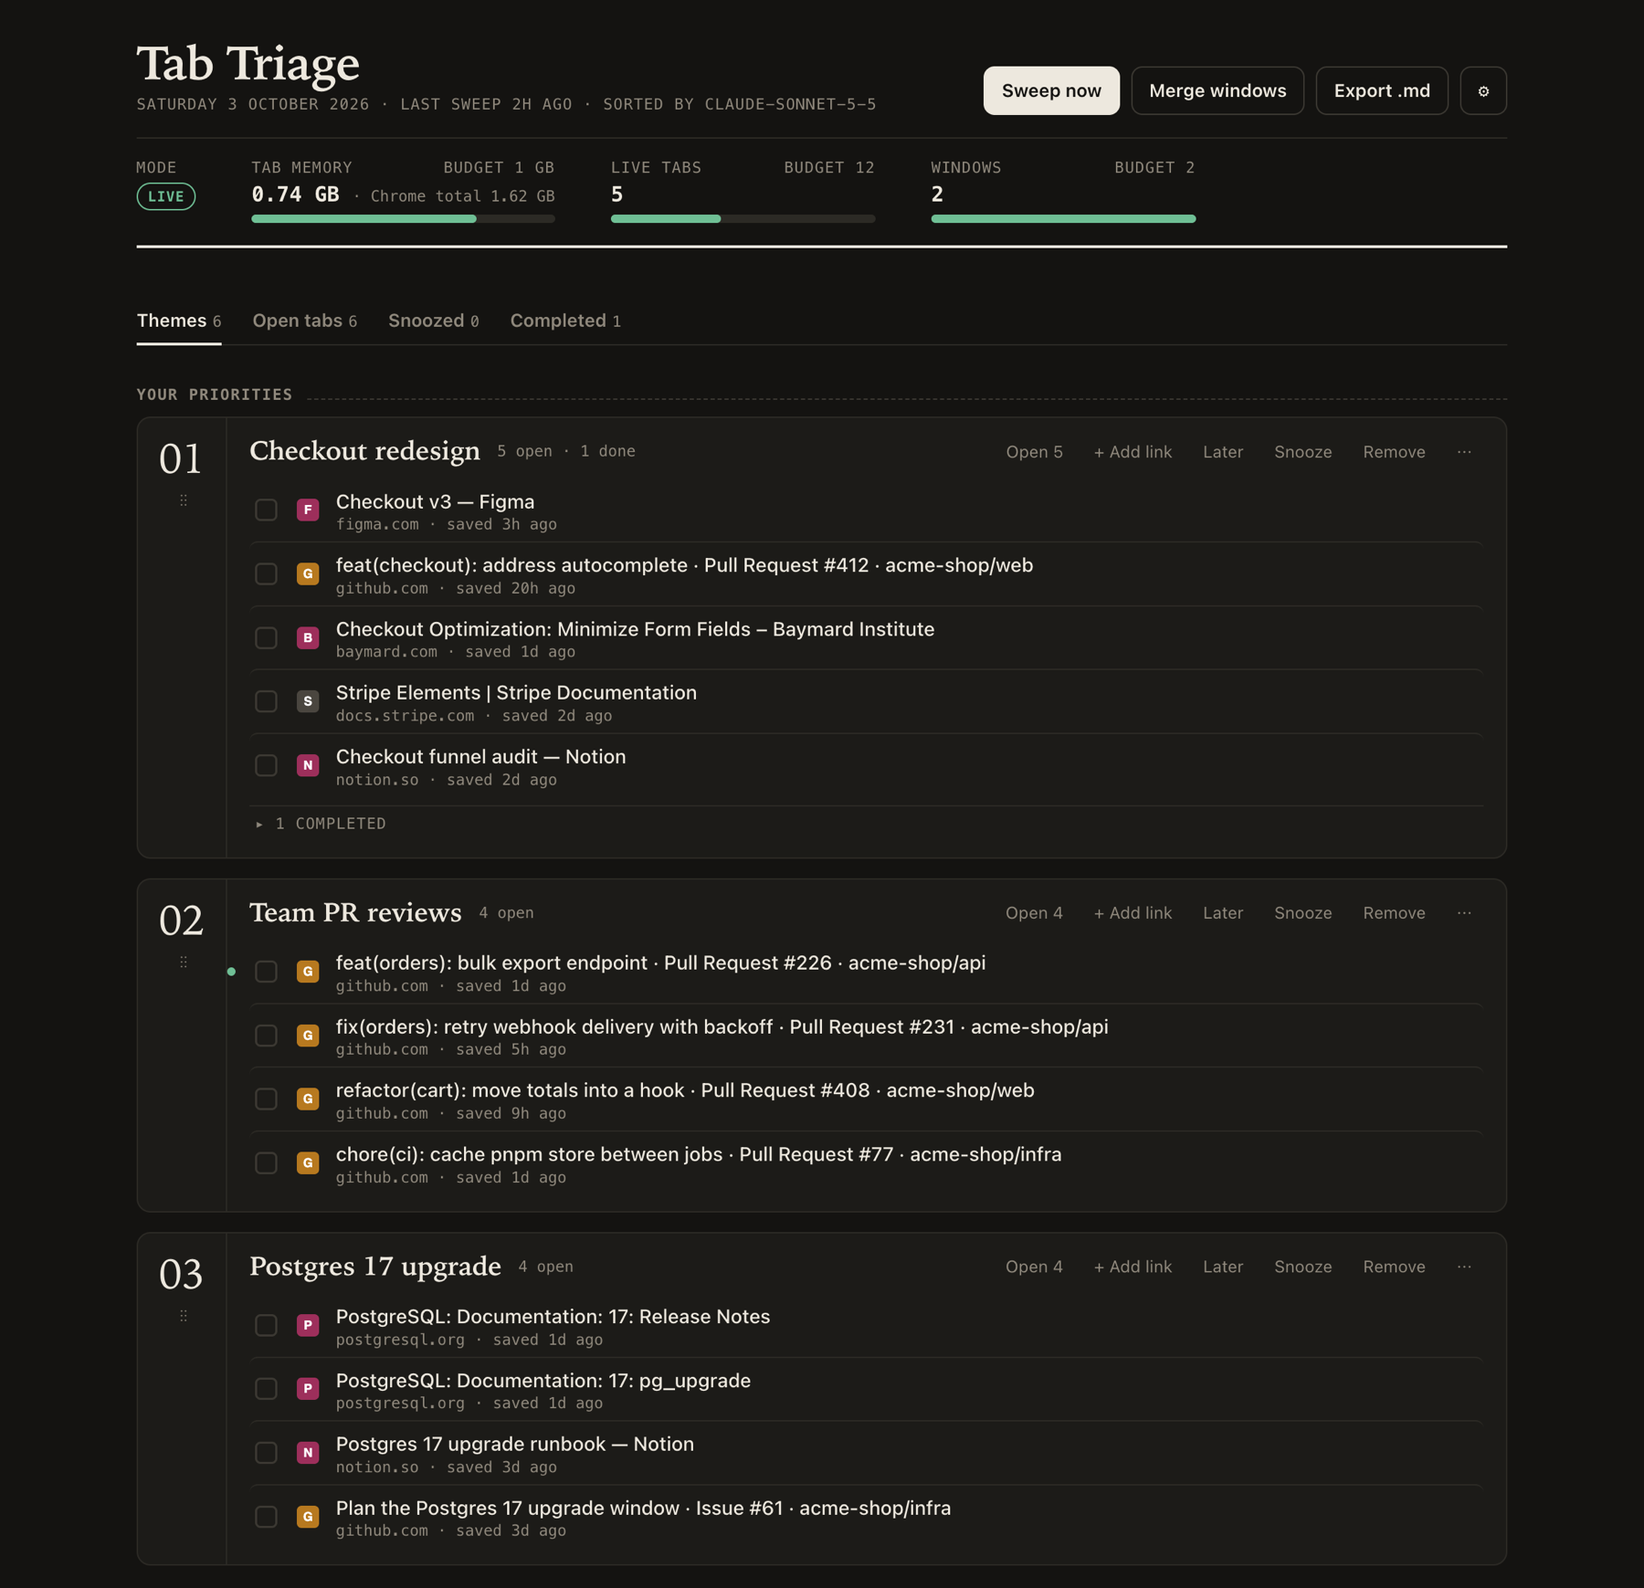
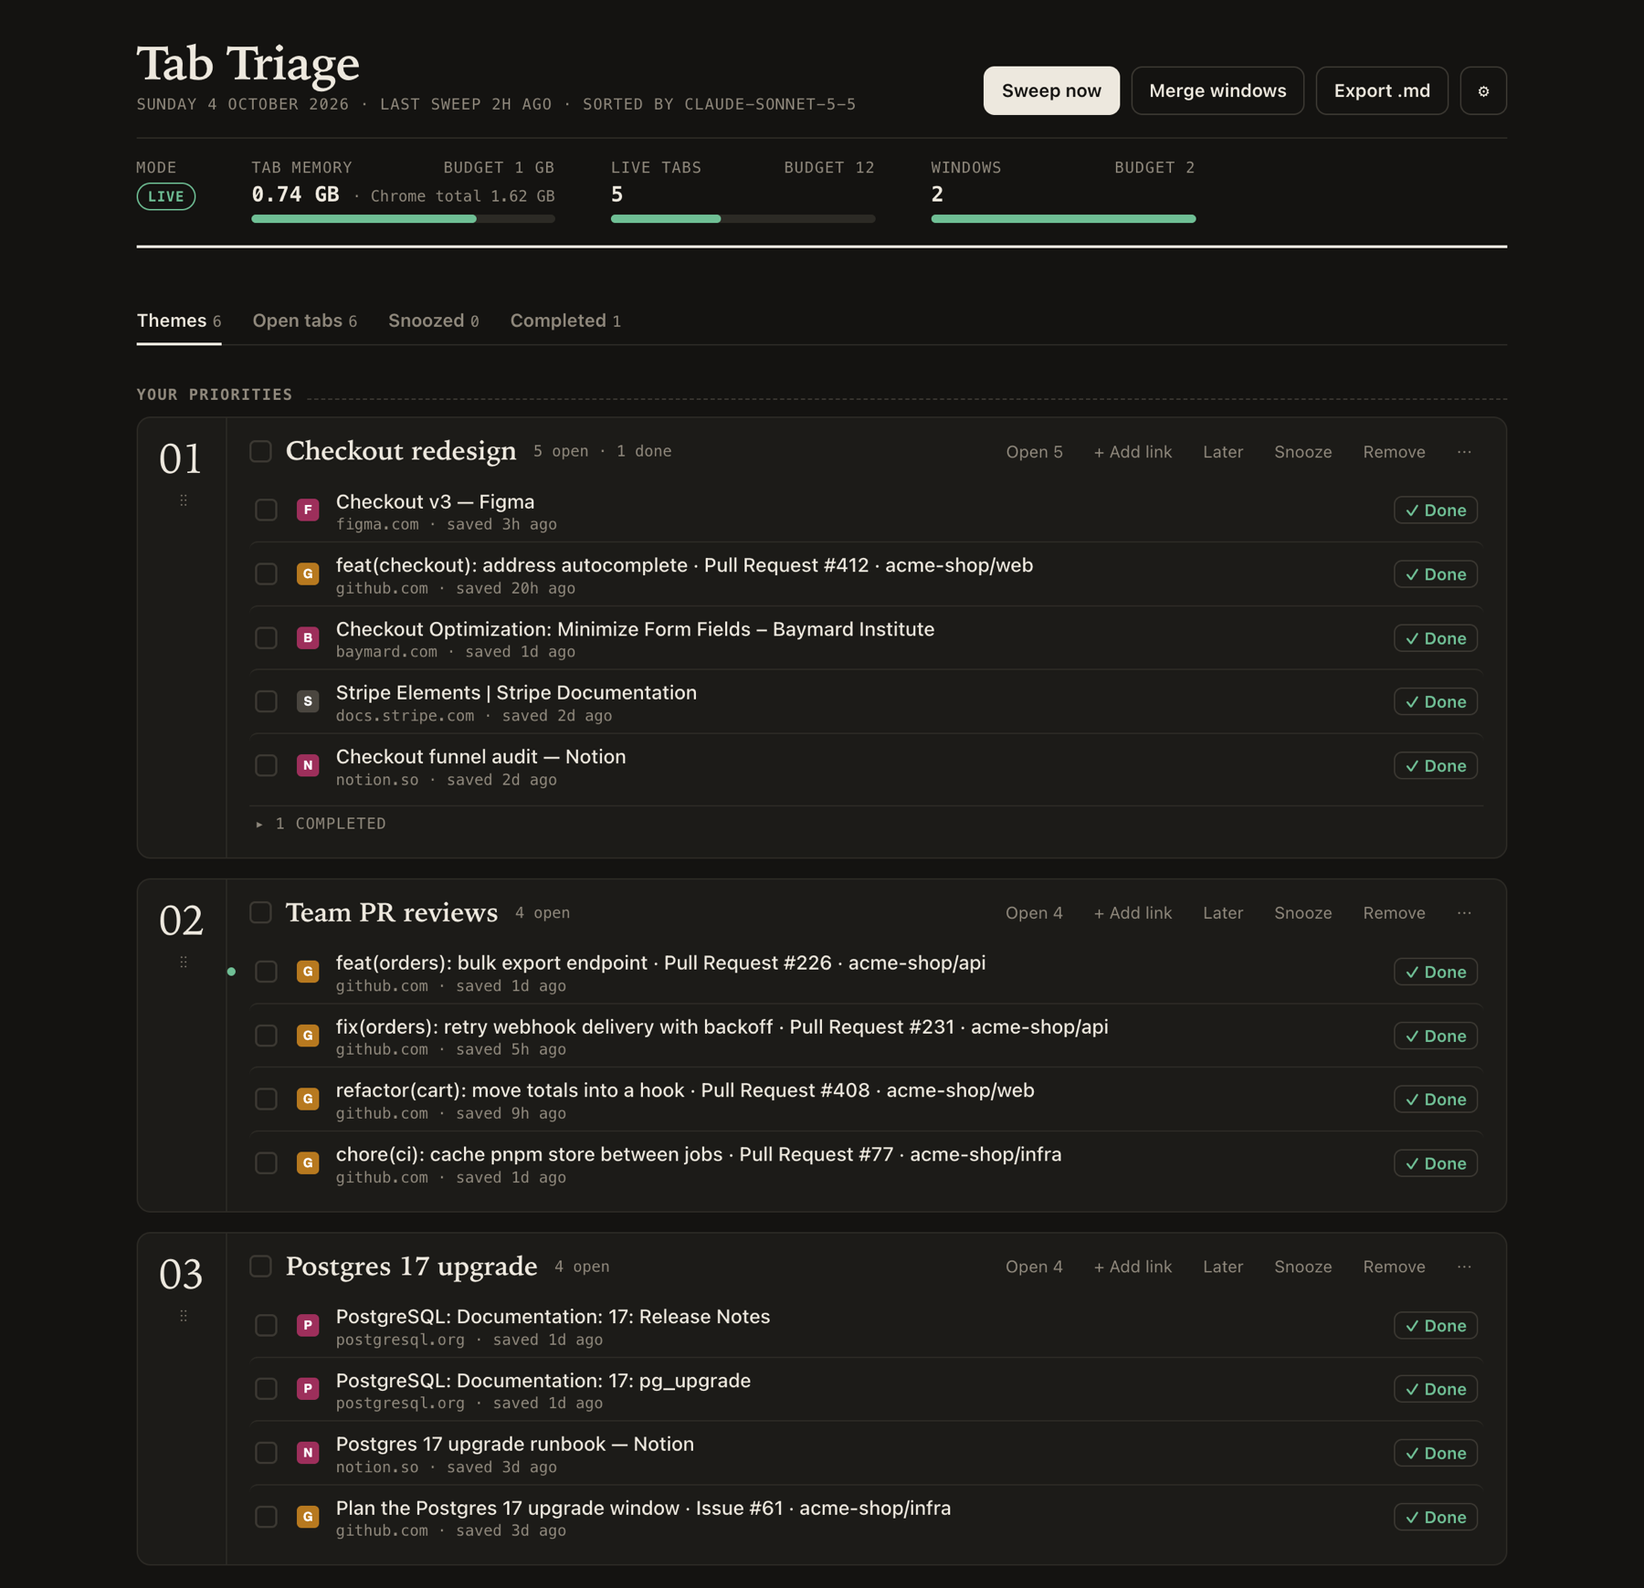
feat(dashboard): checkboxes select, Done is an explicit button
A checkbox that made the tab leave the list was the wrong affordance, and
selecting by clicking a row's empty space was undiscoverable. Now, as in
Gmail:
- the row checkbox selects (shift-click for a range) and a checkbox next
  to each theme's name selects all its tabs
- "✓ Done" is an always-visible button on every open tab; Snooze and
  Remove still appear on hover
- completed tabs show a green tick and a Restore button

README wording and the demo screenshots follow the new design.

diff --git a/extension/dashboard/app.js b/extension/dashboard/app.js
@@ -5,7 +5,7 @@ import { snoozePresets, ago, dayLabel, localISODate, fileStamp } from "../lib/ti
 import { dropIndex, rankedOrder, nudgeIndex, edgeScrollSpeed } from "../lib/dnd.js";
 import { markSeen } from "../lib/seen.js";
 import { isLoaded } from "../lib/rules.js";
-import { rangeIds, pickerThemes, filterThemes, openTabRows } from "../lib/select.js";
+import { rangeIds, pickerThemes, filterThemes, openTabRows, selectionState, toggleAll } from "../lib/select.js";
 import { extractTitle } from "../lib/addmenu.js";
 
 const DAY_S = 86400;
@@ -112,7 +112,7 @@ function render() {
   $("main").innerHTML = (views[S.view] || renderThemes)();
   const present = new Set([...document.querySelectorAll("[data-tab-id]")].map((r) => Number(r.dataset.tabId)));
   for (const id of S.selected) if (!present.has(id)) S.selected.delete(id);
-  renderBulkBar();
+  syncSelection();
 }
 
 function renderDateline() {
@@ -241,20 +241,26 @@ function tabRow(t, { theme = null, done = false } = {}) {
   if (t.pending_close) sub.push(`<span class="open-dot">● still open in Chrome</span>`);
   if (t.snoozed_until) sub.push(`wakes ${dayLabel(t.snoozed_until, Date.now())} ${hhmm(t.snoozed_until)}`);
   const remove = `<button class="tool" data-action="remove-tab" title="Not useful after all: take it off the list (no Completed history) and close it in Chrome">Remove</button>`;
-  const tools = t.snoozed_until
-    ? `<button class="tool" data-action="wake-tab">Wake now</button>${remove}`
-    : done ? "" : `<button class="tool" data-action="snooze-tab">Snooze</button>${remove}`;
+  // Hover tools, then the one action that is always visible.
+  const hover = done ? ""
+    : t.snoozed_until ? `<button class="tool" data-action="wake-tab">Wake now</button>${remove}`
+    : `<button class="tool" data-action="snooze-tab">Snooze</button>${remove}`;
+  const primary = done
+    ? `<button class="tool" data-action="uncheck" title="Bring it back to its theme">Restore</button>`
+    : `<button class="tool done-btn" data-action="check" title="Finished with it: keep it in Completed">✓ Done</button>`;
+  const box = done
+    ? `<span class="tick" role="img" aria-label="Completed"></span>`
+    : `<button class="check" data-action="pick" aria-label="Select this tab" title="Select (shift-click for a range)"></button>`;
   return `
     <li class="tab ${t.status} ${t.back ? "back" : ""} ${S.selected.has(t.id) ? "selected" : ""}" data-tab-id="${t.id}" data-url="${esc(t.url)}"
         draggable="${!done && !t.snoozed_until && !theme}">
-      <button class="check" data-action="${t.status === "done" ? "uncheck" : "check"}"
-              aria-label="${t.status === "done" ? "Mark not done" : "Mark done"}"></button>
+      ${box}
       <img src="${favicon(t.url)}" alt="" loading="lazy">
       <div class="title">
         <a href="${esc(t.url)}" data-action="open-tab" title="${esc(t.title)}">${esc(t.title)}</a>
         <div class="sub">${sub.join(" · ")}</div>
       </div>
-      <div class="row-tools">${tools}</div>
+      <div class="row-actions"><span class="row-tools">${hover}</span>${primary}</div>
     </li>`;
 }
 
@@ -275,6 +281,7 @@ function themeCard(th, i) {
       </div>
       <div class="theme-body">
         <div class="theme-head">
+          <button class="check all" data-action="pick-theme" aria-label="Select all tabs in this theme" title="Select all tabs in this theme"></button>
           <h2 class="theme-name" data-action="rename" title="Click to rename">${esc(th.name)}</h2>
           ${badges}
           <span class="theme-meta">${open.length} open${done.length ? ` · ${done.length} done` : ""}</span>
@@ -377,7 +384,7 @@ function renderSnoozed() {
 
 function renderCompleted() {
   if (!S.completed.length) {
-    return `<div class="empty-state"><b>Nothing completed yet</b>Tick a tab when you're done with it. It stays here for ${S.state.settings.done_retention_days} days.</div>`;
+    return `<div class="empty-state"><b>Nothing completed yet</b>Click ✓ Done on a tab when you've finished with it. It stays here for ${S.state.settings.done_retention_days} days.</div>`;
   }
   const groups = new Map();
   for (const t of S.completed) {
@@ -389,7 +396,7 @@ function renderCompleted() {
     ${[...groups].map(([label, tabs]) => `
       <h3>${esc(label)} · ${tabs.length}</h3>
       <ul class="tabs">${tabs.map((t) => tabRow(t, { theme: t.theme, done: true })).join("")}</ul>`).join("")}
-    <p class="footnote">Completed tabs are deleted ${S.state.settings.done_retention_days} days after you tick them. Untick to bring one back.</p>
+    <p class="footnote">Completed tabs are deleted ${S.state.settings.done_retention_days} days after you complete them. Restore brings one back.</p>
   </div>`;
 }
 
@@ -696,6 +703,11 @@ const actions = {
   "wake-tab": (el) => act(() => api("POST", `/api/tabs/${tabId(el)}/snooze`, { until: null })),
   "snooze-theme": (el) => snoozeMenu(el, (until) => act(() => api("POST", `/api/themes/${themeId(el)}/snooze`, { until }))),
   "remove-tab": (el) => removeTabs([tabId(el)]),
+  pick: (el, e) => toggleSelect(tabId(el), e.shiftKey),
+  "pick-theme": (el) => {
+    S.selected = toggleAll(S.selected, themeTabIds(el.closest(".theme")));
+    syncSelection();
+  },
   "focus-tab": async (el, e) => {
     e.preventDefault();
     const id = Number(el.closest("[data-open-id]").dataset.openId);
@@ -899,24 +911,43 @@ document.addEventListener("click", (e) => {
     actions[el.dataset.action](el, e);
     return;
   }
-  // Clicking a tab row's empty space (not its title, tick box or tools) toggles selection;
-  // shift-click selects every visible row between the last clicked row and this one.
-  const row = e.target.closest(".tab[data-tab-id]");
-  if (row && !e.target.closest("a, button, input")) {
-    const id = Number(row.dataset.tabId);
-    if (e.shiftKey) {
-      const visible = [...document.querySelectorAll(".tab[data-tab-id]")].map((r) => Number(r.dataset.tabId));
-      for (const k of rangeIds(visible, S.anchor, id)) S.selected.add(k);
-    } else {
-      S.selected.has(id) ? S.selected.delete(id) : S.selected.add(id);
-    }
-    S.anchor = id;
-    for (const r of document.querySelectorAll(".tab[data-tab-id]")) {
-      r.classList.toggle("selected", S.selected.has(Number(r.dataset.tabId)));
-    }
-    renderBulkBar();
-  }
+  // Clicking a row's empty space selects it too (same as its checkbox).
+  const row = e.target.closest(SELECTABLE);
+  if (row && !e.target.closest("a, button, input")) toggleSelect(Number(row.dataset.tabId), e.shiftKey);
 });
+
+// Selection, Gmail style: a row's checkbox (or its empty space) selects it; shift-click selects
+// every visible row between the last clicked row and this one. Completed rows aren't selectable.
+const SELECTABLE = ".tab[data-tab-id]:not(.done)";
+
+function toggleSelect(id, range = false) {
+  if (range) {
+    const visible = [...document.querySelectorAll(SELECTABLE)].map((r) => Number(r.dataset.tabId));
+    for (const k of rangeIds(visible, S.anchor, id)) S.selected.add(k);
+  } else {
+    S.selected.has(id) ? S.selected.delete(id) : S.selected.add(id);
+  }
+  S.anchor = id;
+  syncSelection();
+}
+
+const themeTabIds = (card) =>
+  [...card.querySelectorAll(":scope .tabs:not(.done-list) > " + SELECTABLE)].map((r) => Number(r.dataset.tabId));
+
+// Paint the selection onto what is on screen: rows, each theme's select-all box, the bar.
+function syncSelection() {
+  for (const r of document.querySelectorAll(".tab[data-tab-id]")) {
+    r.classList.toggle("selected", S.selected.has(Number(r.dataset.tabId)));
+  }
+  for (const card of document.querySelectorAll(".theme[data-theme-id]")) {
+    const box = card.querySelector(".check.all");
+    if (!box) continue;
+    const state = selectionState(S.selected, themeTabIds(card));
+    box.classList.toggle("some", state === "some");
+    box.classList.toggle("every", state === "all");
+  }
+  renderBulkBar();
+}
 // Shift-clicking rows would otherwise also highlight page text.
 document.addEventListener("mousedown", (e) => {
   if (e.shiftKey && e.target.closest(".tab[data-tab-id]") && !e.target.closest("a, button, input")) e.preventDefault();
@@ -933,8 +964,7 @@ document.addEventListener("keydown", (e) => {
 function clearSelection() {
   S.selected.clear();
   S.anchor = null;
-  for (const r of document.querySelectorAll(".tab.selected")) r.classList.remove("selected");
-  renderBulkBar();
+  syncSelection();
 }
 
 function renderBulkBar() {

diff --git a/extension/dashboard/style.css b/extension/dashboard/style.css
@@ -249,14 +249,31 @@ a { color: inherit; }
 .tab:first-child { border-top: 0; }
 .tab[draggable="true"] { cursor: grab; }
 .tab.dragging { opacity: .35; }
-.tab .check {
+.check {
+  flex: none;
   width: 16px; height: 16px; border-radius: 4px; border: 1.5px solid var(--rule-strong);
   background: transparent; cursor: pointer; padding: 0; display: grid; place-items: center;
   transition: background .15s, border-color .15s;
 }
-.tab .check:hover { border-color: var(--go); }
-.tab.done .check { background: var(--go); border-color: var(--go); }
-.tab.done .check::after { content: ""; width: 4px; height: 8px; border: solid var(--card); border-width: 0 2px 2px 0; transform: translateY(-1px) rotate(45deg); }
+.check:hover { border-color: var(--ink); }
+/* The checkbox selects (Gmail style); completing is the explicit "Done" button. */
+.tab.selected .check, .check.all.every { background: var(--ink); border-color: var(--ink); }
+.tab.selected .check::after, .check.all.every::after {
+  content: ""; width: 4px; height: 8px; border: solid var(--card); border-width: 0 2px 2px 0;
+  transform: translateY(-1px) rotate(45deg);
+}
+.check.all.some { border-color: var(--ink); }
+.check.all.some::after { content: ""; width: 8px; height: 2px; background: var(--ink); border-radius: 1px; }
+.tab .tick {
+  width: 16px; height: 16px; border-radius: 50%; background: var(--go); display: grid; place-items: center;
+}
+.tab .tick::after {
+  content: ""; width: 4px; height: 8px; border: solid var(--card); border-width: 0 2px 2px 0;
+  transform: translateY(-1px) rotate(45deg);
+}
+.row-actions { display: flex; align-items: center; gap: 4px; }
+.tool.done-btn { color: var(--go); border-color: var(--rule-strong); font-weight: 600; white-space: nowrap; }
+.tool.done-btn:hover { background: var(--go); border-color: var(--go); color: var(--card); }
 .tab img { width: 16px; height: 16px; border-radius: 3px; }
 .tab .title { min-width: 0; }
 .tab .title a {

diff --git a/extension/lib/select.test.js b/extension/lib/select.test.js
@@ -1,6 +1,6 @@
 import { test } from "node:test";
 import assert from "node:assert/strict";
-import { rangeIds, pickerThemes, filterThemes, openTabRows } from "./select.js";
+import { rangeIds, pickerThemes, filterThemes, openTabRows, selectionState, toggleAll } from "./select.js";
 
 const rows = [11, 12, 13, 14, 15];
 
@@ -62,4 +62,18 @@ test("open tabs are listed with where they are already saved, web pages only", (
     { id: 2, url: "https://a.com/x", title: "A", savedIn: null },
     { id: 4, url: "https://b.com", title: "B", savedIn: "Team PRs" },
   ]);
+});
+
+// Theme select-all checkbox, Gmail style.
+test("a theme's checkbox shows whether none, some or all of its tabs are selected", () => {
+  assert.equal(selectionState(new Set(), [1, 2, 3]), "none");
+  assert.equal(selectionState(new Set([2]), [1, 2, 3]), "some");
+  assert.equal(selectionState(new Set([1, 2, 3, 9]), [1, 2, 3]), "all");
+  assert.equal(selectionState(new Set([1]), []), "none");
+});
+
+test("the theme checkbox selects all its tabs, or clears them when all are already selected", () => {
+  assert.deepEqual([...toggleAll(new Set([9]), [1, 2])].sort(), [1, 2, 9]);
+  assert.deepEqual([...toggleAll(new Set([1, 9]), [1, 2])].sort(), [1, 2, 9]);
+  assert.deepEqual([...toggleAll(new Set([1, 2, 9]), [1, 2])], [9]);
 });

diff --git a/extension/lib/select.js b/extension/lib/select.js
@@ -36,3 +36,17 @@ export function openTabRows(chromeTabs, board, dashboardUrl) {
   }
   return rows;
 }
+
+// "none" | "some" | "all": how much of `ids` is in the selection (for a select-all checkbox).
+export function selectionState(selected, ids) {
+  const n = ids.filter((id) => selected.has(id)).length;
+  return n === 0 ? "none" : n === ids.length ? "all" : "some";
+}
+
+// Select-all click: select every id, or clear them if they were all selected already.
+export function toggleAll(selected, ids) {
+  const next = new Set(selected);
+  const all = selectionState(selected, ids) === "all";
+  for (const id of ids) all ? next.delete(id) : next.add(id);
+  return next;
+}

diff --git a/README.md b/README.md
@@ -3,7 +3,7 @@
 If you keep dozens of tabs open because each one is a task you don't want to forget, Tab Triage
 takes them off Chrome's hands. Once a day it saves the tabs you haven't touched in 4 days into a
 dashboard, sorts them into themes (one theme per task or project), and closes them. You work
-from the dashboard: prioritize themes, open the tabs for one task, tick them off when done.
+from the dashboard: prioritize themes, open the tabs for one task, mark them done as you finish.
 
 The result is a couple of Chrome windows with a handful of live tabs, a task list that doesn't
 depend on tabs staying open, and far less memory use.
@@ -117,17 +117,17 @@ below and Later ones at the bottom), **Open tabs** (every page open in Chrome ri
 | Add a tab that's open in Chrome | **Open tabs** view → **Add & close** or **Add, keep open** on its row → pick a theme, **Let Claude choose**, **On its own** (Unsorted) or **New theme…**. The row shows if the page is already saved. |
 | Add the page you're on, without the dashboard | Right-click **inside the page** → **Add this page to Tab Triage** → **Add & close** or **Add, keep open** → a theme, **Let Claude choose**, or **On its own (Unsorted)**. It also works by right-clicking the Tab Triage toolbar icon. Chrome doesn't allow extensions in the menu you get by right-clicking a tab in the tab strip. |
 | Add a link | **+ Add link** on a theme card, paste the URL, press Enter. The page's title is filled in. |
-| Mark a tab done | Tick its box. It greys out, drops to the bottom of the theme and appears under **Completed** for 45 days, then is deleted. Untick it to bring it back. |
+| Mark a tab done | Click **✓ Done** on its row. It greys out, drops to the bottom of the theme and appears under **Completed** for 45 days, then is deleted. **Restore** brings it back. |
 | Prioritize themes | Drag a theme by its number. While you drag, cards collapse to headers and a "Drop here to make it #1" bar appears at the top. Or use **⋯ → Move to top / Move up / Move down**. |
 | Reorder or move tabs | Drag a tab within its theme, onto another theme, or onto a theme in **Later**. **Move to…** in the selection bar lists every theme, including Later and snoozed ones. |
-| Act on several tabs | Click the empty space in a tab's row to select it; shift-click selects a range. A bar offers **Done**, **Move to…**, **Snooze** and **Remove**. Esc clears. |
+| Act on several tabs | Tick their checkboxes (shift-click for a range), or tick the box next to a theme's name to select all its tabs. A bar offers **Done**, **Move to…**, **Snooze** and **Remove**. Esc clears. |
 | Hide something until a date | **Snooze** a tab or a theme (tomorrow, next Monday, in a week, or a date). It returns marked "Back". |
 | Put a theme aside with no date | **Later** collapses it to one line at the bottom. Click the line to bring it back to its place. |
 | Rename a theme | Click its name. |
 | Combine themes | **⋯ → Merge into…**, then pick the theme from the searchable list. |
 | Finish a whole theme | **⋯ → Mark all done**. Reversible for 45 days. |
 | Undo a grouping you don't like | **⋯ → Dissolve**. Its tabs go back to Claude to be re-sorted, and Claude is told not to recreate that theme. |
-| Remove a theme | **Remove** on the theme card, or **⋯ → Remove theme**. All its tabs leave the list (and close in Chrome if open); tabs you had already ticked keep their history in Completed. **Undo** in the message brings everything back. |
+| Remove a theme | **Remove** on the theme card, or **⋯ → Remove theme**. All its tabs leave the list (and close in Chrome if open); tabs you had already completed keep their history in Completed. **Undo** in the message brings everything back. |
 | Reduce the number of windows | **Merge windows** brings you down to two windows: the dashboard's window and one other (the one with your inboxes, else the largest) stay as they are, and tabs from every other window move into them. With two or fewer windows it does nothing. Nothing is closed. |
 | Keep a copy | **Export .md** downloads the list as Markdown. |
 
@@ -135,7 +135,7 @@ A theme nobody has touched for 7 days shows **Stale — drop it?**; clicking it 
 done. When Claude thinks two themes overlap, the card shows a **Merge** suggestion you can accept
 or dismiss.
 
-**Done vs Remove:** tick a tab when you've finished with it; it's kept in Completed for 45 days
+**Done vs Remove:** click ✓ Done when you've finished with a tab; it's kept in Completed for 45 days
 as a record. Remove it when it turned out not to be useful; it leaves no history.
 
 Your corrections (moving a tab to another theme, renaming, merging, dissolving) are passed to
@@ -217,7 +217,7 @@ outside the range are rejected. The numbers used elsewhere in this README (96 ho
 |---|---|---|---|
 | A tab is stale after | 96 hours | 1–720 | The daily sweep saves tabs untouched for this long. **Sweep now** ignores it. |
 | Daily sweep time | 19:00 | any time | When the automatic sweep runs. |
-| Keep completed tabs for | 45 days | 1–365 | How long ticked tabs stay in Completed. |
+| Keep completed tabs for | 45 days | 1–365 | How long completed tabs stay in Completed. |
 | "Open N" opens at most | 6 tabs | 1–12 | How many of a theme's top tabs open at once. |
 | Snoozed items wake at | 08:00 | any time | Time of day a snoozed tab or theme comes back. |
 | Sorting model | `sonnet` | | A Claude Code model alias, so it follows new versions. Falls back to `haiku` if unavailable. |
